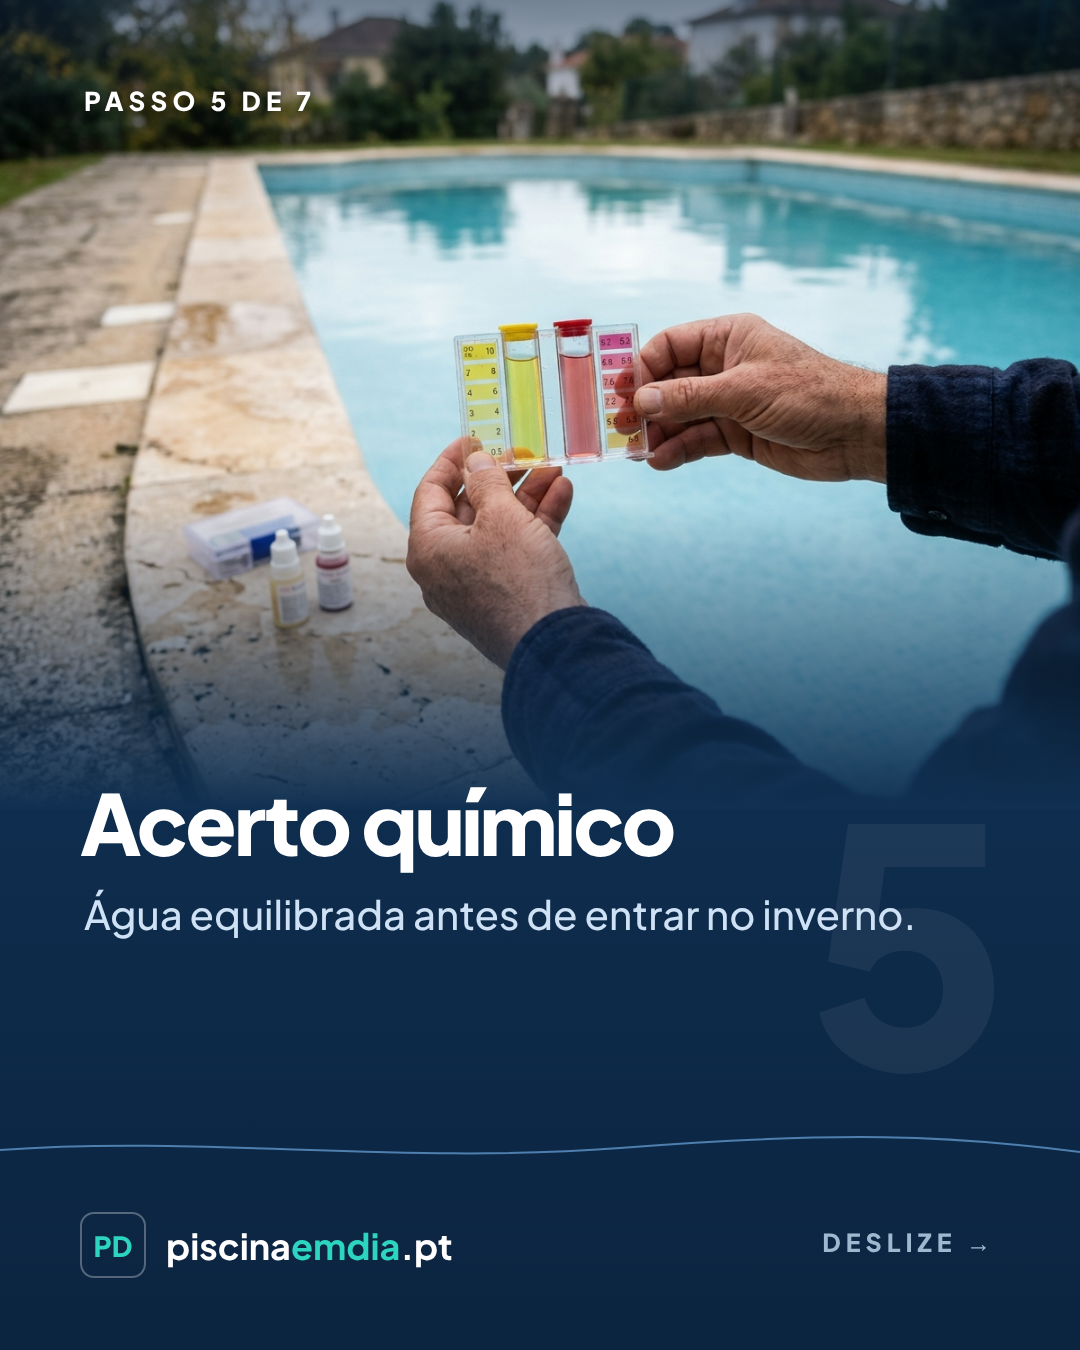
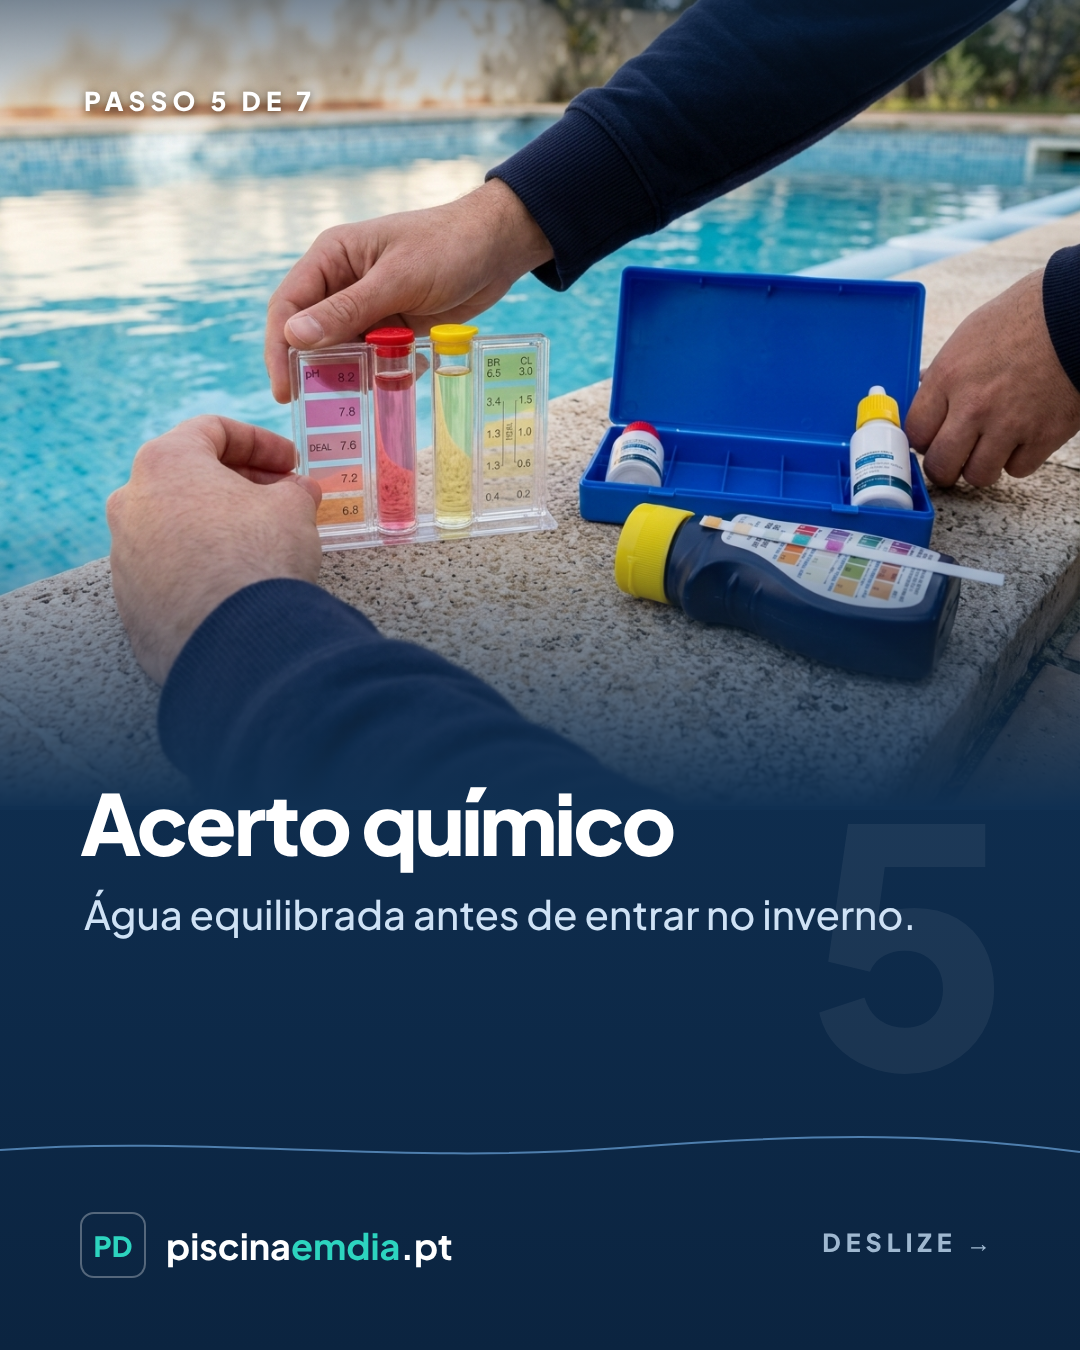
Fix winter carousel step photos after owner review
Claude-Session: https://claude.ai/code/session_015APGbDmTNWJmiYTMG5yM5V

diff --git a/piscina-em-dia/.agents/product-marketing.md b/piscina-em-dia/.agents/product-marketing.md
@@ -147,6 +147,8 @@ TO CONFIRM
   - Pool accessories and equipment must look like real, existing products (skimmers, nets, poles, brushes, test kits, covers, pumps, filters). No made-up or distorted gear; check every image and discard any with invented accessories.
   - Equipment the owner uses on visits (owner, 2026-10-30): bottom leaf net (camaroeiro de fundo), brush, manual wheeled vacuum head on telescopic pole, test kits with drops and strips (incl. OTO/Phenol Red), chlorine tablets in a floating dispenser.
   - Skimmers (liner or concrete pools): a rectangular mouth opening in the pool side wall at water level; behind it, only a round or square lid flush in the paving. Never draw a skimmer as a box on the coping or a floating object.
+  - Owner corrections (2026-10-30): the manual vacuum hose plugs into a wall suction fitting (tomada de aspiração), never into the skimmer; when vacuuming, show fine brown-black dust on the floor (not leaves). Skimmers usually come in pairs, side by side. The pool brush is only for floor and walls; the waterline is cleaned with a white melamine sponge (esponja mágica). Machine rooms have PVC ball valves (válvulas de esfera) on the pipes. Pump control panels are proper ones: enclosure with RCD, breaker, contactor, thermal relay, timer and manual/0/auto selector. Water testing uses both the drop kit (OTO + Phenol Red comparator) and 4-in-1 test strips (free chlorine, pH, alkalinity, stabilizer).
+  - More reference photos: referencias/kit-gotas-oto-phenol.jpg, referencias/tiras-4em1-frente.jpg, referencias/tiras-4em1-verso.jpg (product photos; for image generation only, never publish; generated images must not show brand names).
   - Winter covers: depend on the client; when there is one, it is usually a tarp (lona) held with elastic cords.
   - Reference photo of real skimmer, lid, vacuum head and floating dispenser: referencias/skimmer-e-acessorios-reais.png (owner photo, a client's pool; internal reference for image generation only, never publish). Passing it to Gemini as a reference image gives accurate accessories.
 - Video rules (owner): face never appears; only hands and the work shirt. Owner plans real cinematic videos of each visit, with editing by the agent (future).
@@ -172,6 +174,7 @@ TO CONFIRM
 
 ## Changelog
 *Newest first. One line per revision: what changed and why.*
+- v22 (2026-10-30) — Owner corrections on vacuum, waterline, machine room, control panel and test kits; kit reference photos.
 - v21 (2026-10-30) — Learning on AI image prompts for pool accessories.
 - v20 (2026-10-30) — Owner's equipment list, real skimmer layout, winter cover type and reference photo for image generation.
 - v19 (2026-10-30) — Gemini billing active and image generation working; owner image rules: frost not snow, real accessories only.
